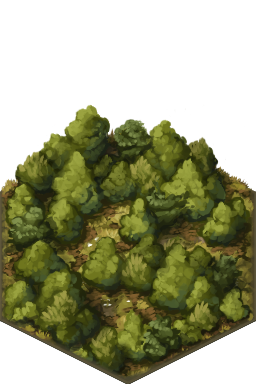
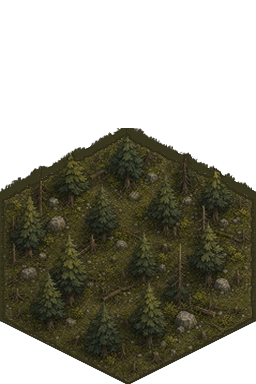
Replace default terrain pack and add flat-hex convert pipeline.
Ship the new grassland/forest/mountain/shore/water tiles for #P12, convert flat transparent hexes to the 256×384 footprint layout, and sync roadmap/attribution docs.

diff --git a/src/render/tileTextures.ts b/src/render/tileTextures.ts
@@ -94,6 +94,10 @@ export function getUnitIconTexture(name: string): HTMLImageElement | null {
  * to fill the hex's bounding box. Deliberately not clipped — draw order
  * (top row first) makes each lower tile paint over the tile behind it, which
  * is what lets `drawHexTileOverlay` below spill upward correctly.
+ *
+ * Shipped terrain files are 256×384 under this convention. Flat pointy-top
+ * hex source art must be converted first via `scripts/convert-flat-terrain-hex.py`
+ * (ROADMAP #P12; see AGENTS.md).
  */
 export function drawHexTileTexture(
   ctx: CanvasRenderingContext2D,

diff --git a/src/render/HexCanvas.tsx b/src/render/HexCanvas.tsx
@@ -62,7 +62,9 @@ const MAX_ZOOM = 3;
 const CLICK_DRAG_THRESHOLD_PX = 18;
 
 const TERRAIN_COLORS: Record<TerrainType, string> = {
-  water: "#2f6f9f",
+  // Under-texture fill shows through soft AA at hex seams — keep this darker
+  // than the water art so gaps read as deep water, not a bright blue grid.
+  water: "#1a3548",
   shore: "#d9c98a",
   grassland: "#5a9e4f",
   forest: "#2f5a34",

diff --git a/scripts/convert-flat-terrain-hex.py b/scripts/convert-flat-terrain-hex.py
@@ -1,0 +1,121 @@
+#!/usr/bin/env python3
+"""Convert flat (top-down) hex terrain PNGs into Hex World's tile layout.
+
+Incoming art is often a square with a pointy-top hex drawn inside and
+transparent padding around it. The renderer expects the isometric hex-prism
+convention used by `drawHexTileTexture` / `drawHexTileOverlay` in
+`src/render/tileTextures.ts`:
+
+  - Output size: 256×384 (width × height)
+  - Bottom 256×256: hex footprint, opaque edge-to-edge under the footprint mask
+  - Top 128px: optional upward bleed (peaks / treetops); leave empty for flat art
+
+Dropping a raw flat hex into `public/profiles/*/assets/terrain/` causes visible
+gaps between tiles. Run this script before shipping replacements (ROADMAP #P12).
+
+Examples:
+  python3 scripts/convert-flat-terrain-hex.py path/to/water.png \\
+    -o public/profiles/default/assets/terrain/water.png
+
+  python3 scripts/convert-flat-terrain-hex.py ./new-terrain/*.png \\
+    -o public/profiles/default/assets/terrain/
+"""
+
+from __future__ import annotations
+
+import argparse
+import sys
+from pathlib import Path
+
+try:
+    import numpy as np
+    from PIL import Image
+except ImportError:
+    print("Requires Pillow and numpy: pip install pillow numpy", file=sys.stderr)
+    raise
+
+ROOT = Path(__file__).resolve().parents[1]
+DEFAULT_MASK = Path(__file__).resolve().parent / "terrain-hex-footprint-mask.png"
+FOOTPRINT = 256
+CANVAS_H = 384
+OVERLAY_H = CANVAS_H - FOOTPRINT
+OPAQUE_ALPHA = 128
+
+
+def convert_flat_hex(src: Image.Image, mask_alpha: np.ndarray) -> Image.Image:
+    src = src.convert("RGBA")
+    arr = np.array(src)
+    alpha = arr[:, :, 3]
+    ys, xs = np.where(alpha >= OPAQUE_ALPHA)
+    if len(xs) == 0:
+        raise ValueError("source has no opaque pixels (alpha >= 128)")
+
+    content = src.crop((int(xs.min()), int(ys.min()), int(xs.max()) + 1, int(ys.max()) + 1))
+    filled = content.resize((FOOTPRINT, FOOTPRINT), Image.Resampling.LANCZOS)
+    out_fp = np.array(filled)
+
+    mask_opaque = mask_alpha >= OPAQUE_ALPHA
+    src_opaque = out_fp[:, :, 3] >= OPAQUE_ALPHA
+    if src_opaque.any():
+        mean_rgb = out_fp[src_opaque][:, :3].mean(axis=0).astype(np.uint8)
+    else:
+        mean_rgb = np.array([80, 80, 80], dtype=np.uint8)
+
+    # Cover the isometric silhouette: use mask alpha, fill holes left by the
+    # flat hex's transparent corners with the texture's average colour.
+    need_fill = mask_opaque & ~src_opaque
+    out_fp[need_fill, 0] = mean_rgb[0]
+    out_fp[need_fill, 1] = mean_rgb[1]
+    out_fp[need_fill, 2] = mean_rgb[2]
+    out_fp[:, :, 3] = mask_alpha
+
+    canvas = Image.new("RGBA", (FOOTPRINT, CANVAS_H), (0, 0, 0, 0))
+    canvas.paste(Image.fromarray(out_fp, "RGBA"), (0, OVERLAY_H))
+    return canvas
+
+
+def load_mask_alpha(mask_path: Path) -> np.ndarray:
+    mask = Image.open(mask_path).convert("RGBA")
+    if mask.size != (FOOTPRINT, FOOTPRINT):
+        raise ValueError(f"mask must be {FOOTPRINT}×{FOOTPRINT}, got {mask.size[0]}×{mask.size[1]}")
+    return np.array(mask.split()[-1])
+
+
+def main() -> int:
+    parser = argparse.ArgumentParser(description=__doc__, formatter_class=argparse.RawDescriptionHelpFormatter)
+    parser.add_argument("inputs", nargs="+", type=Path, help="Flat hex PNG(s) to convert")
+    parser.add_argument(
+        "-o",
+        "--output",
+        type=Path,
+        required=True,
+        help="Output PNG path, or a directory when converting multiple inputs",
+    )
+    parser.add_argument(
+        "--mask",
+        type=Path,
+        default=DEFAULT_MASK,
+        help=f"256×256 RGBA footprint mask (default: {DEFAULT_MASK.relative_to(ROOT)})",
+    )
+    args = parser.parse_args()
+
+    mask_alpha = load_mask_alpha(args.mask)
+    inputs = args.inputs
+    out = args.output
+
+    if len(inputs) > 1 or out.is_dir() or str(out).endswith("/"):
+        out.mkdir(parents=True, exist_ok=True)
+        for src_path in inputs:
+            dest = out / src_path.name
+            convert_flat_hex(Image.open(src_path), mask_alpha).save(dest, "PNG")
+            print(f"wrote {dest}")
+        return 0
+
+    out.parent.mkdir(parents=True, exist_ok=True)
+    convert_flat_hex(Image.open(inputs[0]), mask_alpha).save(out, "PNG")
+    print(f"wrote {out}")
+    return 0
+
+
+if __name__ == "__main__":
+    raise SystemExit(main())

diff --git a/design/DESIGN.md b/design/DESIGN.md
@@ -48,7 +48,7 @@ No login, no email, no account. On arrival, the player finds a short **field man
 
 An existing local save shows a **continue-or-new-game** prompt (styled as a notebook page) before onboarding — **Yes!** resumes, **No. Start a New Game** clears the save and opens the manual. Choosing **Start as a new player** from the new-game dialog shows the full manual again.
 
-**Difficulty profiles:** selectable in advanced registration options and via URL `/{slug}` on the game domain (`play.{domain}`). Each profile loads `public/profiles/{slug}/tweaks.jsonc`; optional partial sprites under `profiles/{slug}/assets/` fall back to `profiles/default/assets/`. See `design/TWEAKS.md` § Profiles.
+**Difficulty profiles:** selectable in advanced registration options and via URL `/{slug}` on the game domain (`play.{domain}`). Each profile loads `public/profiles/{slug}/tweaks.jsonc`; optional partial sprites under `profiles/{slug}/assets/` fall back to `profiles/default/assets/`. See `design/TWEAKS.md` § Profiles. Default terrain art was replaced under [ROADMAP #P12](ROADMAP.md#terrain-art-replacement-p12); per-level structure sprites remain planned ([#P11](ROADMAP.md#per-level-structure-sprites-p11)).
 
 Progress persists locally in IndexedDB automatically during play, so closing the tab mid-session doesn't lose anything. For anything beyond that — moving a game to another device, keeping a backup, running separate playthroughs side by side — the player explicitly **saves to a file** (see §17).
 
@@ -193,8 +193,9 @@ A successfully held den **converts into a player-usable Outpost** (`engine/outpo
 - Water-based transport of resources (moving cargo across water) — a dock's own food output still deposits straight to base, not via a path/highway network the way land tiles do
 - Environmental map events
 - Auto-repair skill for walls (mentioned as a future possibility, slower than manual repair)
+- **Per-level structure sprites** — most structures still share one map icon across upgrade levels; walls/paths already vary by tier. Planned as ROADMAP [#P11](ROADMAP.md#per-level-structure-sprites-p11).
 
-*(Water-based resources — the "plausible future addition" this list used to defer — shipped during playtesting; see §16, Docks & Water Units. Remote outposts also shipped, with growth-over-time deliberately dropped from the original den concept; see §13.)*
+*(Water-based resources — the "plausible future addition" this list used to defer — shipped during playtesting; see §16, Docks & Water Units. Remote outposts also shipped, with growth-over-time deliberately dropped from the original den concept; see §13. Default terrain pack swap shipped as [#P12](ROADMAP.md#terrain-art-replacement-p12); see [attribution.md](attribution.md).)*
 
 ---
 
@@ -220,5 +221,5 @@ Both wandering units use the same movement rule: step to a random adjacent tile 
 - **Save files, not accounts** — IndexedDB holds the active session for crash/continue convenience, but the real save/load mechanism is an old-school, explicit save-to-file / load-from-file flow. Files are plain JSON, human-editable, and untrusted by design — single-player game, so if someone wants to hand-edit their save, that's entirely their call.
 - **Procedural seed** determines the entire map at generation time — same seed reproduces the same world.
 - **Tweaks-file driven balance** — nearly every numeric value lives in per-profile `tweaks.jsonc` files under `public/profiles/{slug}/`, loaded from the URL slug or onboarding selection, validated at boot with Zod (`src/data/tweaksSchema.ts`).
-- **Difficulty profiles** — `public/profiles/index.json` registers shipped profiles (`default`, `hard`, …). Each folder contains `tweaks.jsonc` plus optional `assets/` (partial sprite overrides). Default art lives in `public/profiles/default/assets/`. Asset resolution: active profile → default profile → flat-colour fallback (`src/render/assetPaths.ts`). `profileSlug` is persisted in IndexedDB with the save.
+- **Difficulty profiles** — `public/profiles/index.json` registers shipped profiles (`default`, `hard`, …). Each folder contains `tweaks.jsonc` plus optional `assets/` (partial sprite overrides). Default art lives in `public/profiles/default/assets/` (`terrain/`, `structures/`, `resources/`, `units/`, `markers/`). Asset resolution: active profile → default profile → flat-colour fallback (`src/render/assetPaths.ts`). `profileSlug` is persisted in IndexedDB with the save. Default terrain tiles were replaced under [#P12](ROADMAP.md#terrain-art-replacement-p12) (flat-hex sources → 256×384 via `scripts/convert-flat-terrain-hex.py`). **Still planned:** distinct sprites per structure upgrade level/tier ([#P11](ROADMAP.md#per-level-structure-sprites-p11)).
 - **Domain split (planned deploy)** — marketing/wiki at `hexworld.seezed.net`; game PWA at `play.{domain}` with `/{slug}` deep links. Git workflow: personal branches `goblin` / `krunchee` → `dev` → `main` (`design/WORKFLOW.md`).

diff --git a/design/ROADMAP.md b/design/ROADMAP.md
@@ -191,7 +191,7 @@ Add manifest `screenshots` entries (wide + mobile) for Chrome's richer install p
 
 ### Extra difficulty profiles (#P8)
 
-Additional sibling packs (e.g. casual, speedrun) under `public/profiles/`, same layout as default/hard. **Refs:** [`public/profiles/index.json`](../public/profiles/index.json), Milestone 23. **Next step:** balance pass + optional partial art overrides.
+Additional sibling packs (e.g. casual, speedrun) under `public/profiles/`, same layout as default/hard. **Refs:** [`public/profiles/index.json`](../public/profiles/index.json), Milestone 23, [#P11](#per-level-structure-sprites-p11). **Next step:** balance pass + optional partial art overrides (including per-level structure files once [#P11](#per-level-structure-sprites-p11) lands).
 
 ### Per-tick horde tile combat (#P9)
 
@@ -200,6 +200,14 @@ Hordes attrition against walls/towers over time on a tile, replacing the current
 ### Terrain tile defense (#P10)
 
 Terrain type multiplies tile claim difficulty (e.g. mountains harder than grassland), on top of distance-based defense. **Refs:** [TWEAKS.md § Territory Expansion](TWEAKS.md), [DESIGN.md §6](DESIGN.md). **Next step:** tuning table in tweaks.
+
+### Per-level structure sprites (#P11)
+
+Distinct map (and UI) art per upgrade level/tier for structures that today share one sprite — extraction small→mid→large, towers L1–4, barracks L1–4, base levels, docks/boats where it reads, etc. Walls and paths already ship tier sprites; extend that pattern with missing-file fallback to the unlevelled/default asset. **Refs:** [DESIGN.md §17](DESIGN.md), [TWEAKS.md § Difficulty profiles](TWEAKS.md), [`src/render/assetPaths.ts`](../src/render/assetPaths.ts), [`src/render/HexCanvas.tsx`](../src/render/HexCanvas.tsx), Milestone 23. **Next step:** naming convention + which structures get unique art vs shared fallback; then promote to milestone when asset set is ready.
+
+### Terrain art replacement (#P12)
+
+**Status:** ✅ Done (2026-07-23). Replaced the itch.io hex basic-set terrain pack in `profiles/default/assets/terrain/` (`grassland`, `forest`, `mountain`, `shore`, `water`) with a new flat pointy-top hex set, converted to the 256×384 footprint layout via [`scripts/convert-flat-terrain-hex.py`](../scripts/convert-flat-terrain-hex.py). Profile override → default → flat-colour path unchanged. **Refs:** [attribution.md](attribution.md), [AGENTS.md](../AGENTS.md), [`src/render/tileTextures.ts`](../src/render/tileTextures.ts). **Maintenance:** future terrain swaps still need the convert script (flat hex + transparent bg → footprint); fill in source/license in attribution when confirmed.
 
 ---
 
@@ -229,6 +237,8 @@ Much of original scope superseded by Milestone 20 (hex-ring menu, HUD chips, tex
 - ✅ Icon-led HUD, settings/notifications panel, terrain/resource art (via M20)
 - ❌ Watchtower intel/alert role (separate from combat range) — see [#P3](#watchtower-intel--alerts-p3)
 - ❌ PWA manifest `screenshots` for rich install UI — see [#P7](#pwa-install-screenshots-p7)
+
+*Related art tracks (not M16 scope):* [#P11](#per-level-structure-sprites-p11); terrain pack swap shipped as [#P12](#terrain-art-replacement-p12).
 
 **Testable outcome:** first-time player understands state and options without external explanation.
 
@@ -442,6 +452,8 @@ Paged field-manual onboarding, continue-or-new-game prompt, advanced options (di
 URL slugs, bundled `public/profiles/{slug}/`, partial sprite overrides with default fallback, profile persisted in save.
 
 **Testable outcome:** `/hard` loads hard profile; continue prompt on reload; `profiles/index.json` lists difficulties.
+
+*Follow-ons (not in M23 scope):* per-level structure sprites [#P11](#per-level-structure-sprites-p11). Terrain art replacement shipped as [#P12](#terrain-art-replacement-p12).
 
 </details>
 

diff --git a/AGENTS.md b/AGENTS.md
@@ -16,6 +16,14 @@ Non-obvious notes:
 - The dev server binds to localhost only; it is not exposed on the network by default (would need `--host`).
 - Runtime game balance/tuning is loaded from per-profile `public/profiles/{slug}/tweaks.jsonc` (validated with Zod via `src/data/tweaksLoader.ts`), not from code — edit those files to change tuning.
 - Because saves live in IndexedDB, clearing browser site data resets game progress.
+- **Terrain PNGs are not drop-in flat hexes.** The canvas draws full-hex tile art via `drawHexTileTexture` / `drawHexTileOverlay` in `src/render/tileTextures.ts`: each file is **256×384**, with the bottom **256×256** as an isometric hex-prism footprint that must be opaque edge-to-edge under the shared mask, and the top **128px** reserved for optional upward bleed (peaks/treetops). New art arrives as a square flat pointy-top hex on a **transparent** background — dropping that straight into `public/profiles/*/assets/terrain/` leaves gaps between tiles. The default pack was swapped under ROADMAP [#P12](design/ROADMAP.md#terrain-art-replacement-p12); for future swaps, convert with:
+
+  ```bash
+  python3 scripts/convert-flat-terrain-hex.py path/to/flat/*.png \
+    -o public/profiles/default/assets/terrain/
+  ```
+
+  Mask: `scripts/terrain-hex-footprint-mask.png`. Needs `pillow` + `numpy`. Hard-refresh the browser after replacing PNGs (asset cache). Update [design/attribution.md](design/attribution.md) when the source/license changes.
 
 ## Roadmap & workflow
 

diff --git a/design/TWEAKS.md b/design/TWEAKS.md
@@ -30,6 +30,11 @@ public/profiles/
 
 **Adding a profile:** create the folder, set `meta.slug` in `tweaks.jsonc` to match, register in `index.json`, add any partial `assets/`. Zip import/export for new profiles is deferred to a future admin tweaks GUI.
 
+**Asset tracks** (pack layout stays next to profiles; status lives in ROADMAP):
+
+- **Per-level structure sprites ([#P11](ROADMAP.md#per-level-structure-sprites-p11))** — today most `structures/` files are one icon per building type (`tower.png`, `barracks.png`, …). Walls and paths already use tier filenames (`wall-small|medium|large`, `path-track|stone|highway`). The planned track extends that: one file (or named variant) per upgrade level for extraction tiers, tower/barracks/base levels, and similar, with missing levels falling back to the unlevelled/default sprite so partial packs stay valid.
+- **Terrain art ([#P12](ROADMAP.md#terrain-art-replacement-p12) ✅)** — `terrain/` ships the post-itch.io replacement pack (see [attribution.md](attribution.md)). Same filenames; profile overrides still win. Future flat-hex swaps: convert with `scripts/convert-flat-terrain-hex.py` before dropping into `terrain/` (see [AGENTS.md](../AGENTS.md)).
+
 ---
 
 ## How to read `tweaks.jsonc`

diff --git a/design/attribution.md b/design/attribution.md
@@ -1,1 +1,15 @@
-terrain textures from: https://dgbaumgart.itch.io/hex-basic-set-terrain
+# Art attribution
+
+## Terrain (current default pack)
+
+Custom replacement set in `public/profiles/default/assets/terrain/` (`grassland`, `forest`, `mountain`, `shore`, `water`), shipped 2026-07-23 as ROADMAP [#P12](ROADMAP.md#terrain-art-replacement-p12). Flat pointy-top hex sources are converted to the game’s 256×384 footprint layout with [`scripts/convert-flat-terrain-hex.py`](../scripts/convert-flat-terrain-hex.py) (see [AGENTS.md](../AGENTS.md)).
+
+**Source / license:** TBD — fill in when confirmed.
+
+### Retired
+
+Previously used the itch.io hex basic set: https://dgbaumgart.itch.io/hex-basic-set-terrain (removed with #P12).
+
+## Other sprites
+
+Structure, resource, unit, and marker art under `public/profiles/default/assets/` — attribute sources here as packs are commissioned or licensed. Per-level structure variants are tracked as ROADMAP [#P11](ROADMAP.md#per-level-structure-sprites-p11).
